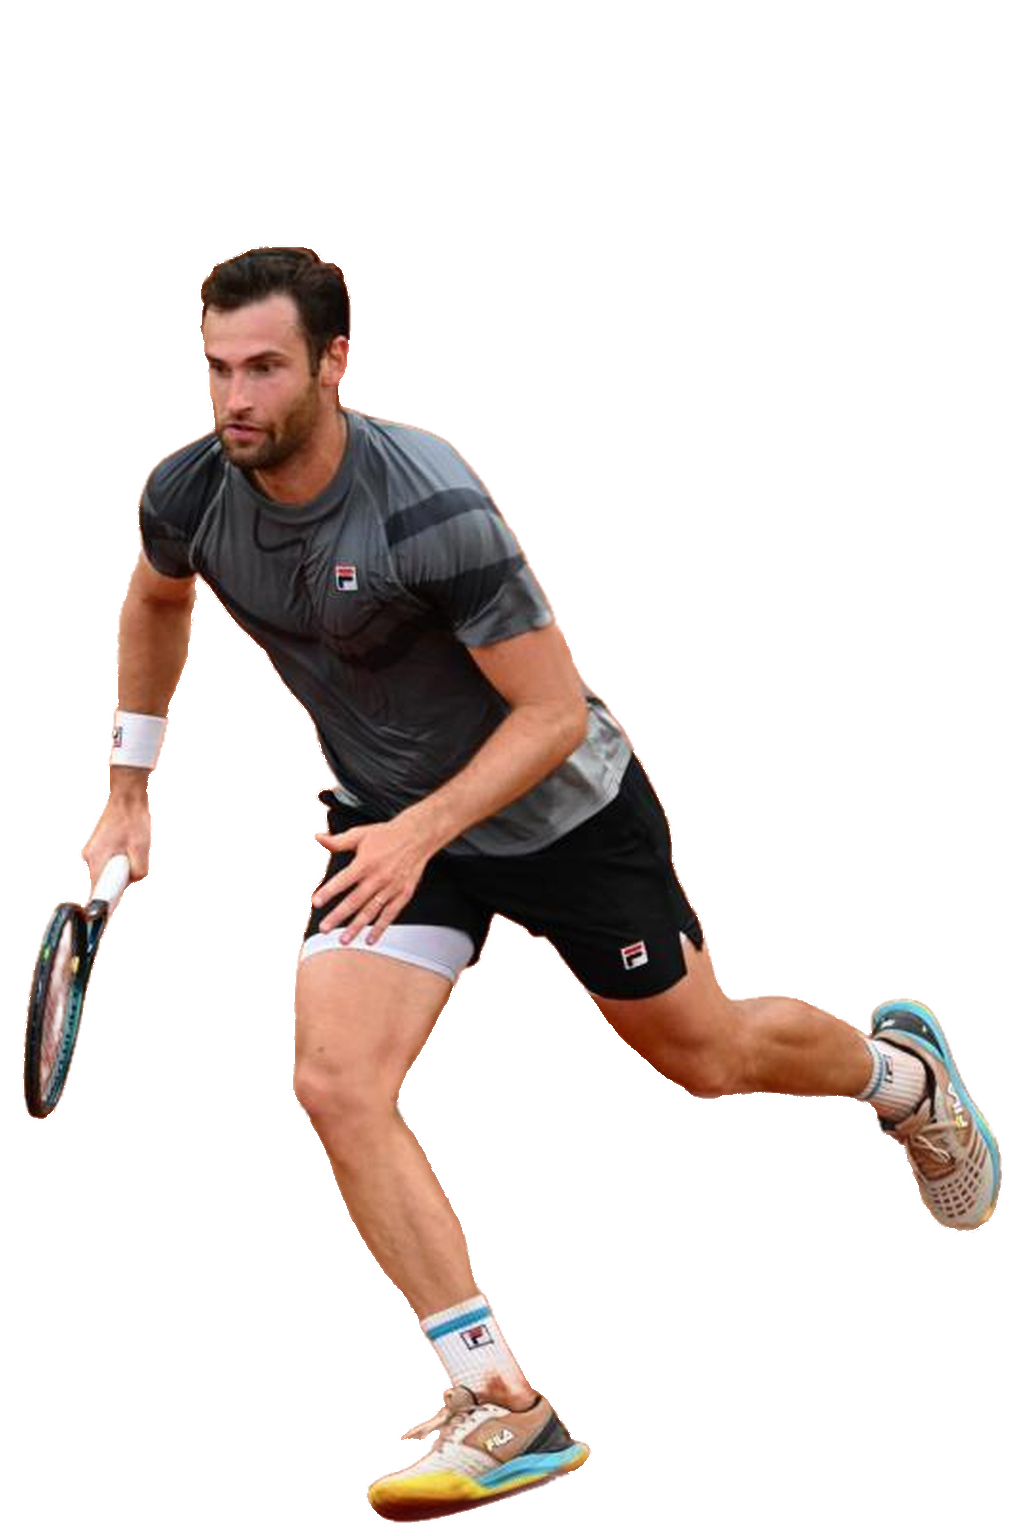
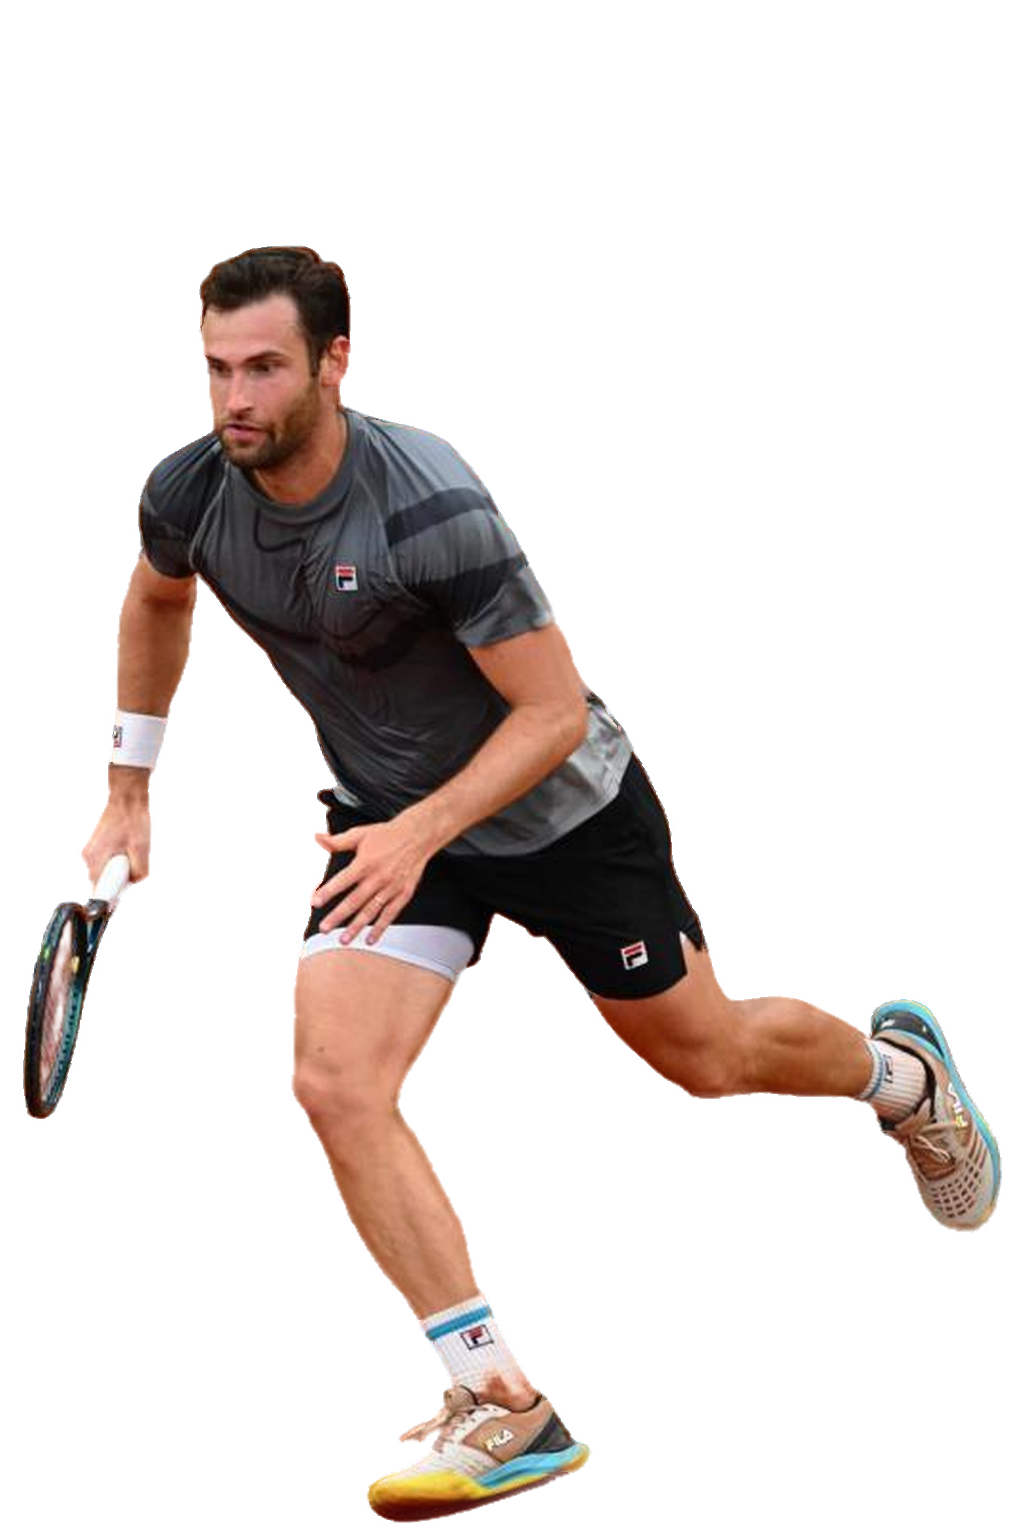
Refine real photo cutout edges and Tsitsipas orientation

diff --git a/app/MatchDashboard.tsx b/app/MatchDashboard.tsx
@@ -372,7 +372,7 @@ const PLAYER_PHOTO_HOME_SIDE:Record<string,"left"|"right">={
   "Thanasi Kokkinakis":"left",
   "Kei Nishikori":"right",
   "Hubert Hurkacz":"left",
-  "Stefanos Tsitsipas":"right",
+  "Stefanos Tsitsipas":"left",
   "Matteo Berrettini":"left",
   "Quentin Halys":"right",
   "Alex Michelsen":"right",
@@ -619,7 +619,7 @@ function PlayerPortrait({id,name,side}:{id:number|null;name:string;side:"left"|"
   const shouldMirror=homeSide!=null&&homeSide!==side;
   const sources=[
     ...(top20Slug?[`/players/cutouts/top20/${top20Slug}.png${top20Slug==="rafael-jodar"?"?v=action-oct25":top20Slug==="casper-ruud"?"?v=real-photo-nov2":""}`]:[]),
-    ...(top40Slug?[`/players/cutouts/top40/${top40Slug}.png${top40Slug==="francisco-cerundolo"?"?v=real-photo-oct19":["alejandro-davidovich-fokina","quentin-halys","stefanos-tsitsipas"].includes(top40Slug)?"?v=real-photo-nov2c":["luciano-darderi","tomas-machac","matteo-berrettini","andrey-rublev"].includes(top40Slug)?"?v=real-photo-nov2":""}`]:[]),
+    ...(top40Slug?[`/players/cutouts/top40/${top40Slug}.png${top40Slug==="francisco-cerundolo"?"?v=real-photo-oct19":["alejandro-davidovich-fokina","quentin-halys","stefanos-tsitsipas"].includes(top40Slug)?"?v=edge-clean-nov3":["luciano-darderi","tomas-machac","matteo-berrettini","andrey-rublev"].includes(top40Slug)?"?v=real-photo-nov2":""}`]:[]),
     ...(top60Slug?[`/players/cutouts/top60/${top60Slug}.png${top60Slug==="daniel-merida-aguilar"?"?v=real-photo-nov2b":""}`]:[]),
     ...(top80Slug?[`/players/cutouts/top80/${top80Slug}.png?v=griekspoor2`]:[]),
     ...(top100Slug?[`/players/cutouts/top100/${top100Slug}.png?v=top100-5`]:[]),

diff --git a/scripts/extract_real_photo_cutouts.py b/scripts/extract_real_photo_cutouts.py
@@ -50,7 +50,8 @@ def extract(source: Path, session: object) -> Image.Image:
         sizes[0] = 0
         subject = labels == sizes.argmax()
         # Remove detached background people/signage while preserving a soft edge.
-        subject = ndimage.binary_fill_holes(subject)
+        if source.name != "stefanos-tsitsipas-rome2023-proxy.jpg":
+            subject = ndimage.binary_fill_holes(subject)
         refined_alpha = np.minimum(alpha_array, ndimage.gaussian_filter(subject.astype(np.float32), 0.65) * 255)
         alpha = Image.fromarray(refined_alpha.astype(np.uint8), "L")
     output = original.convert("RGBA")
@@ -74,21 +75,53 @@ def normalize(image: Image.Image) -> Image.Image:
 
 
 def clean_clay_fringe(image: Image.Image) -> Image.Image:
-    """Remove only obvious clay-coloured spill; keep the photographed limbs intact."""
+    """Decontaminate red clay in the thin outer RGB edge without cutting alpha."""
     pixels = np.asarray(image).copy()
     alpha = pixels[:, :, 3]
-    edge_depth = ndimage.distance_transform_edt(alpha > 0)
-    red = pixels[:, :, 0].astype(np.float32)
-    green = pixels[:, :, 1].astype(np.float32)
-    blue = pixels[:, :, 2].astype(np.float32)
+    visible = alpha > 0
+    edge_depth = ndimage.distance_transform_edt(visible)
+    core = (edge_depth >= 10) & (alpha >= 220)
+    distance, nearest = ndimage.distance_transform_edt(~core, return_indices=True)
+    interior = pixels[nearest[0], nearest[1], :3].astype(np.float32)
+    rgb = pixels[:, :, :3].astype(np.float32)
+    red, green, blue = rgb[:, :, 0], rgb[:, :, 1], rgb[:, :, 2]
     clay_spill = (
-        (alpha > 0)
-        & (edge_depth <= 4)
+        visible
+        & (edge_depth <= 8)
+        & (distance <= 15)
         & (red > 120)
-        & (red > green * 1.7)
-        & (green > blue * 1.15)
+        & (red > green * 1.12)
+        & (green > blue * 1.02)
     )
-    pixels[:, :, 3][clay_spill] = 0
+    strength = np.clip((9 - edge_depth) / 4, 0, 1)
+    blended = rgb * (1 - strength[:, :, None]) + interior * strength[:, :, None]
+    pixels[:, :, :3][clay_spill] = np.clip(blended[clay_spill], 0, 255).astype(np.uint8)
+    # The remaining clay outline is at most two edge pixels wide. Remove only
+    # the warm-colored outer rim, not a uniform band around the player.
+    pixels[:, :, 3][clay_spill & (edge_depth <= 2)] = 0
+    return Image.fromarray(pixels, "RGBA")
+
+
+def clear_tsitsipas_clay_gap(image: Image.Image) -> Image.Image:
+    """Clear clay erroneously kept between the photographed sleeve and torso."""
+    pixels = np.asarray(image).copy()
+    region = pixels[480:600, 225:385]
+    red = region[:, :, 0].astype(np.float32)
+    green = region[:, :, 1].astype(np.float32)
+    blue = region[:, :, 2].astype(np.float32)
+    clay = (
+        (region[:, :, 3] > 0)
+        & (red > 130)
+        & (red > green * 1.32)
+        & (green > blue * 1.1)
+        & (blue < 110)
+    )
+    labels, count = ndimage.label(clay)
+    if count:
+        sizes = np.bincount(labels.ravel())
+        sizes[0] = 0
+        gap = ndimage.binary_dilation(labels == sizes.argmax(), iterations=2)
+        region[:, :, 3][gap] = 0
     return Image.fromarray(pixels, "RGBA")
 
 
@@ -104,7 +137,9 @@ def main(slugs: list[str]) -> None:
         if not source.is_file():
             raise FileNotFoundError(source)
         output = normalize(extract(source, session))
-        if slug in {"alejandro-davidovich-fokina", "quentin-halys"}:
+        if slug == "stefanos-tsitsipas":
+            output = clear_tsitsipas_clay_gap(output)
+        if slug in {"alejandro-davidovich-fokina", "quentin-halys", "stefanos-tsitsipas"}:
             output = clean_clay_fringe(output)
         destination = DESTINATIONS / group / f"{slug}.png"
         output.save(destination, optimize=True)
